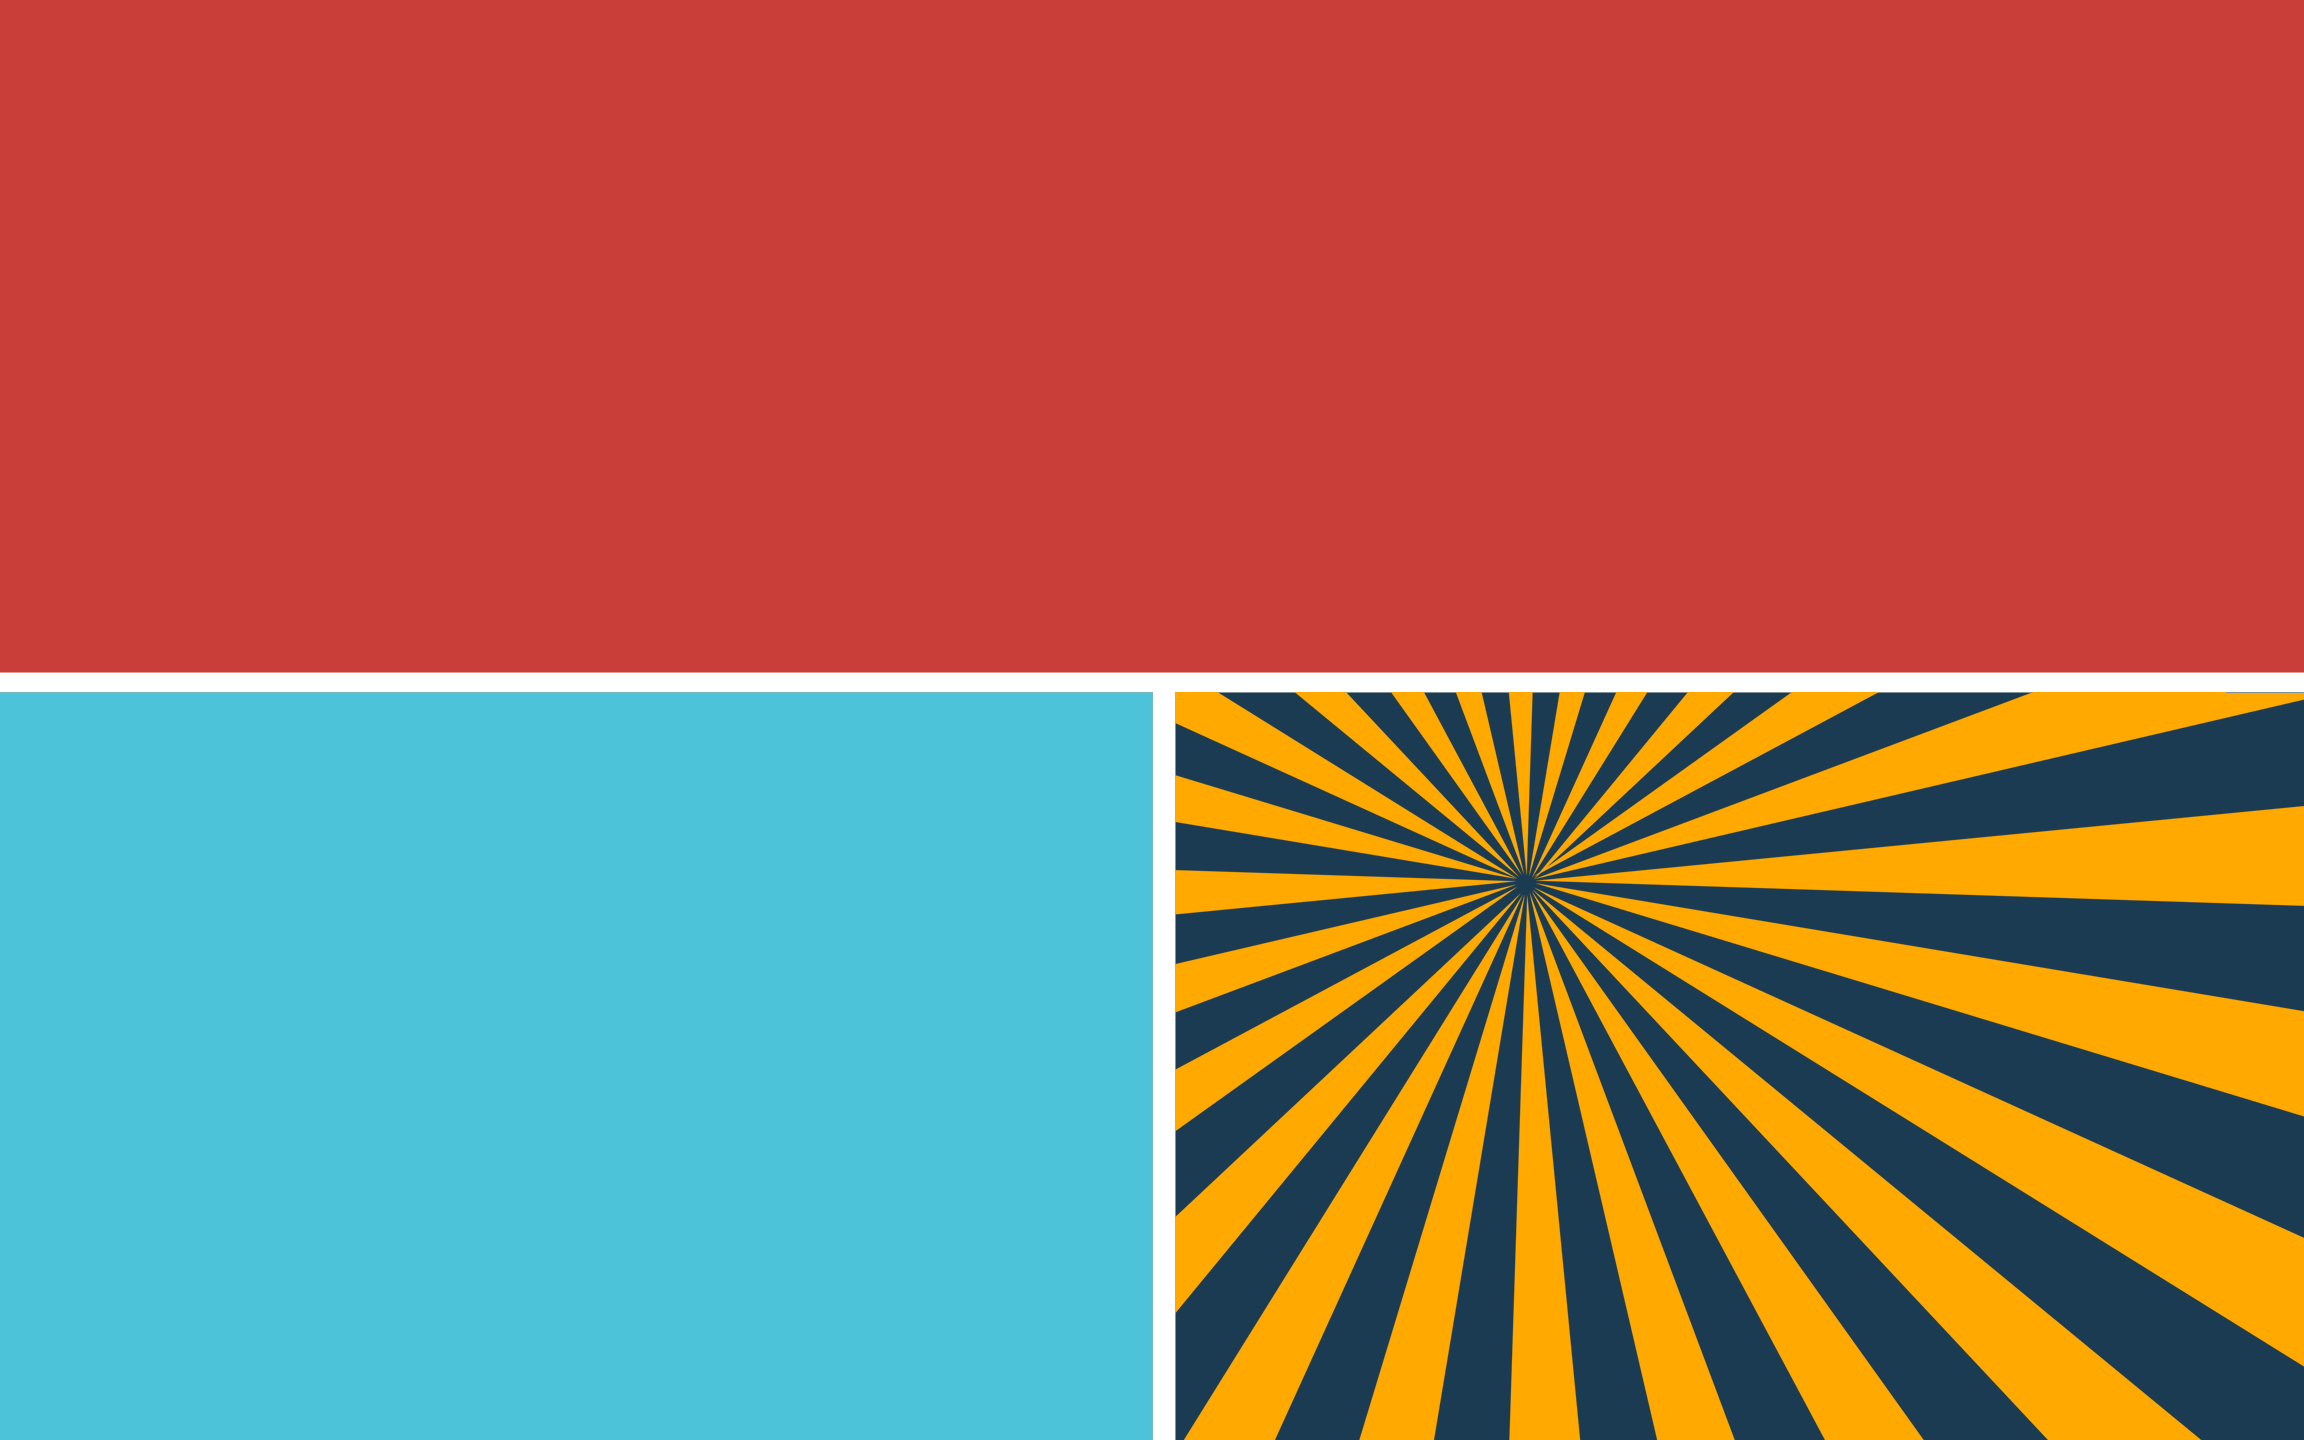
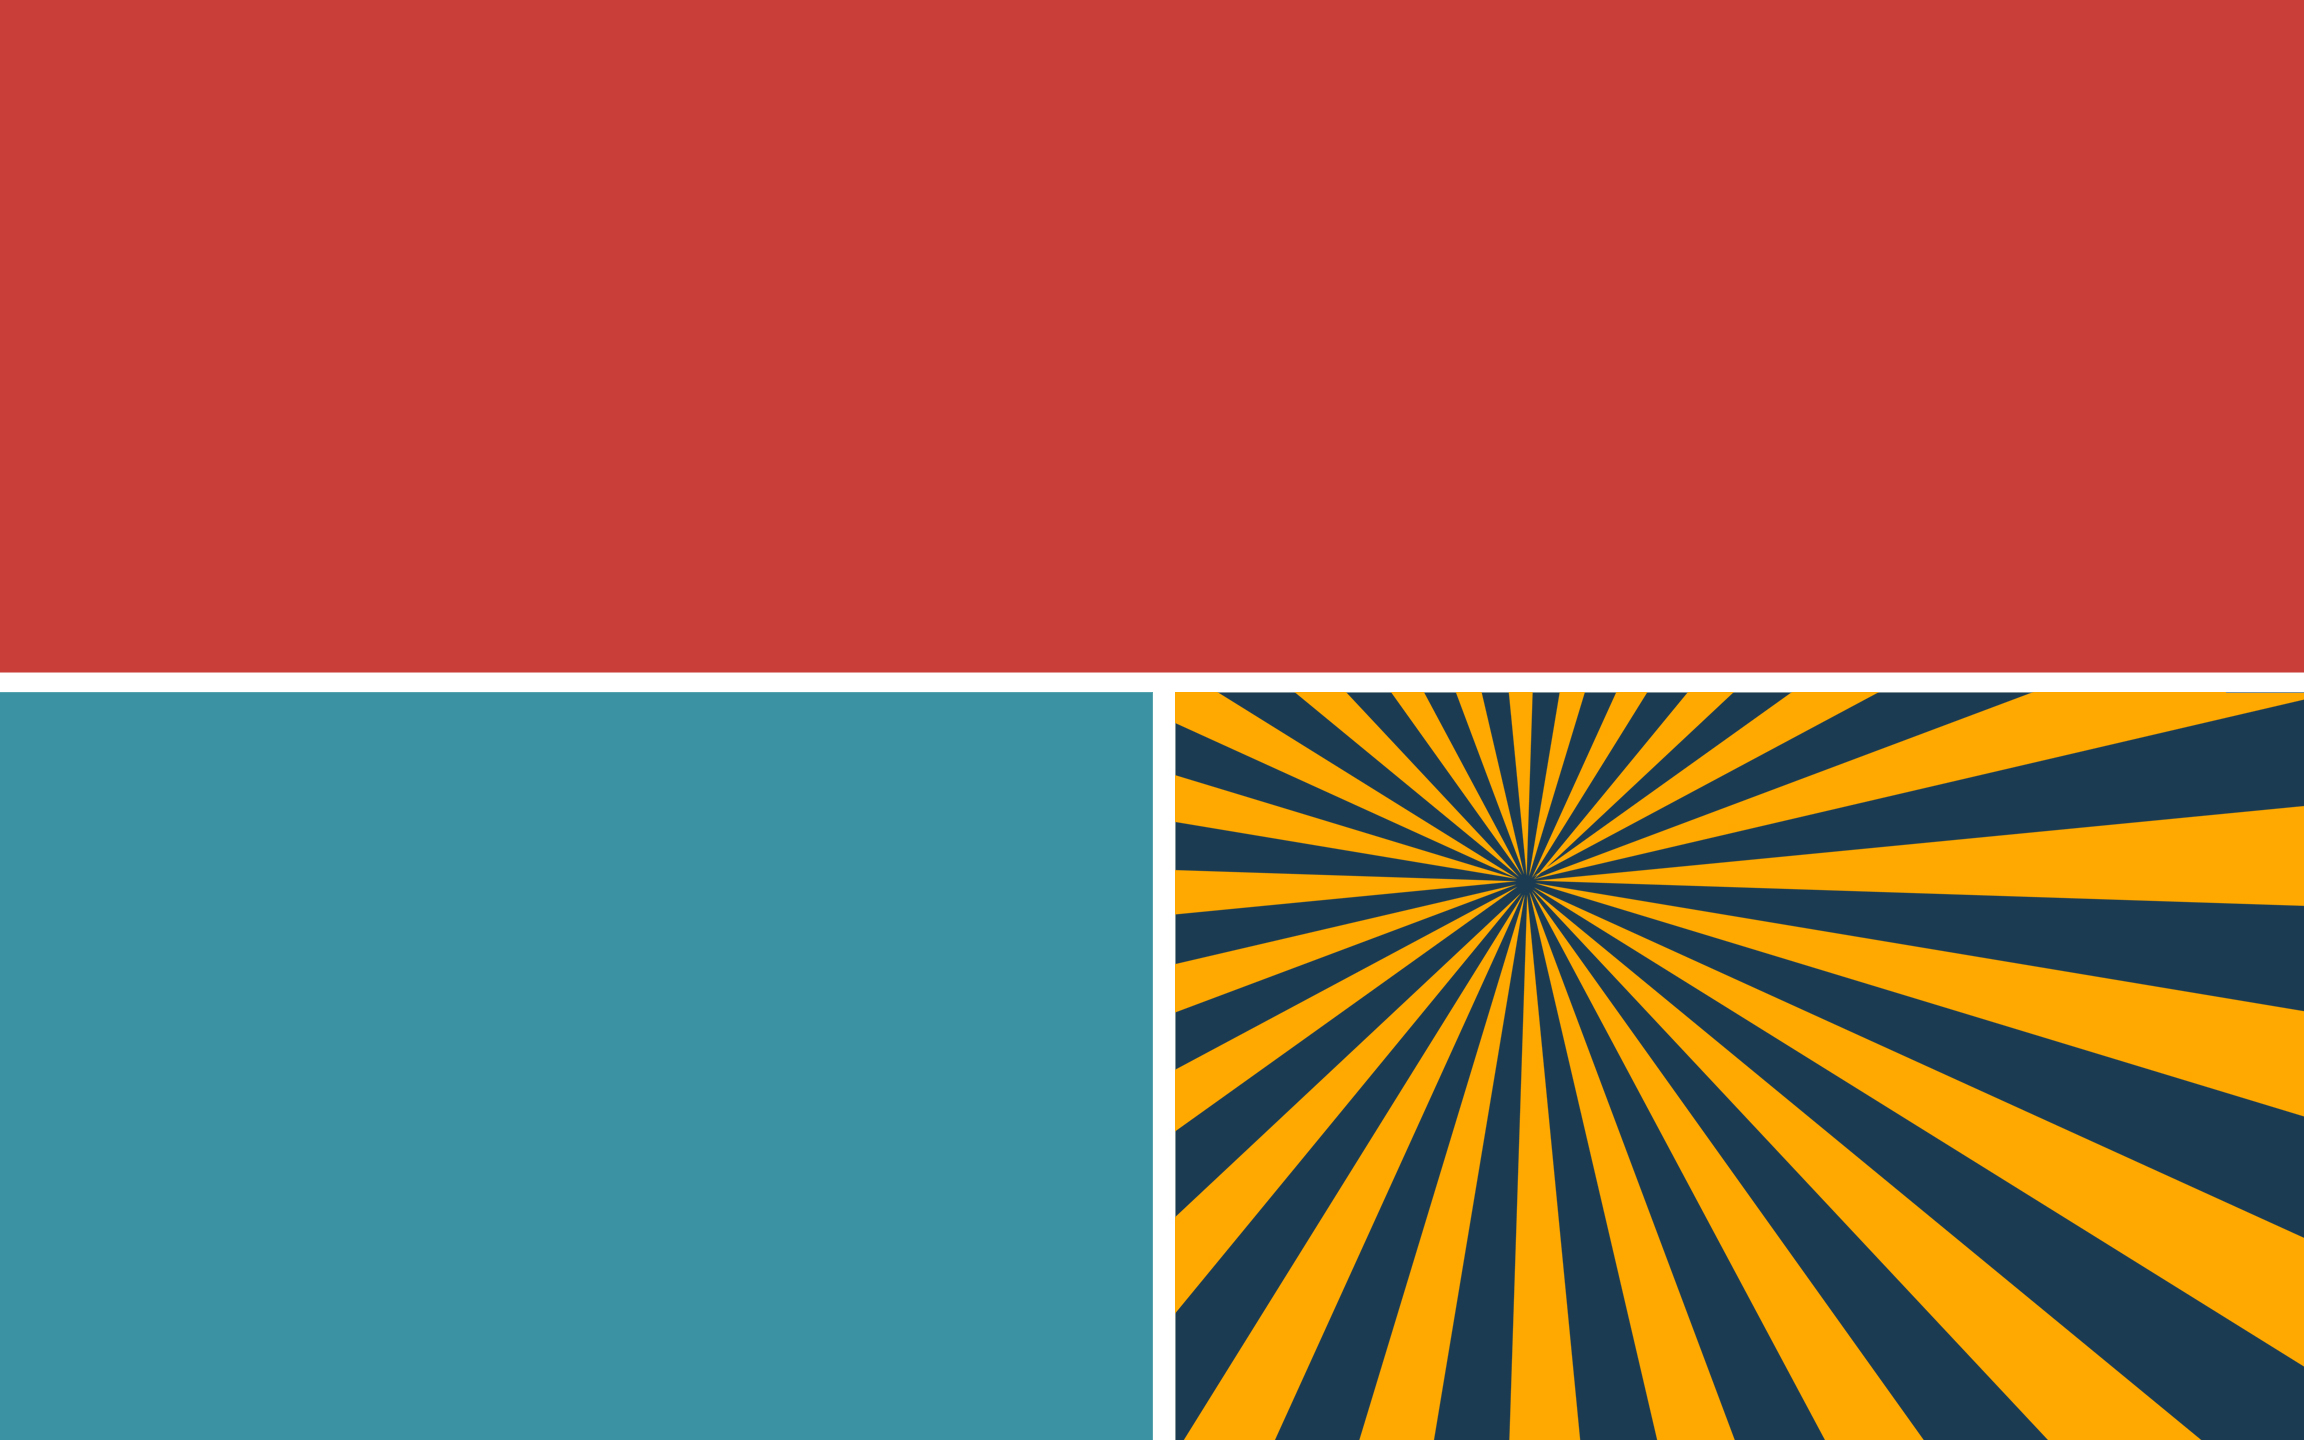
fixes color page 1

Changed region(s): [[0.0, 0.4688, 0.5, 1.0]]

diff --git a/css/style.css b/css/style.css
@@ -4,8 +4,8 @@
 }
 #header {
     height: 20vh;
-    background-color: lightblue;
-    color: #2394BA;
+    background-color: rgb(255, 205, 115);
+    color: rgb(45, 113, 126);
     font-size: 80%;
 }
 .header-h1 {
@@ -48,7 +48,7 @@
     font-size: 3vw;
     margin-top: 2.8vh;
     width: 0 auto;
-    background-color: gray;
+    background-color: rgb(201, 62, 57);
     border: 3px solid WhiteSmoke;
     border-radius: 50%;
     padding: 10%;
@@ -67,7 +67,7 @@
     text-indent: -8px;
     -o-text-overflow: clip;
     text-overflow: clip;
-    text-shadow: 3px 3px 0 MidnightBlue, 4px 4px 0 MidnightBlue;
+    text-shadow: 3px 3px 0 black, 4px 4px 0 black;
 }
 
 /*.hover1:hover {
